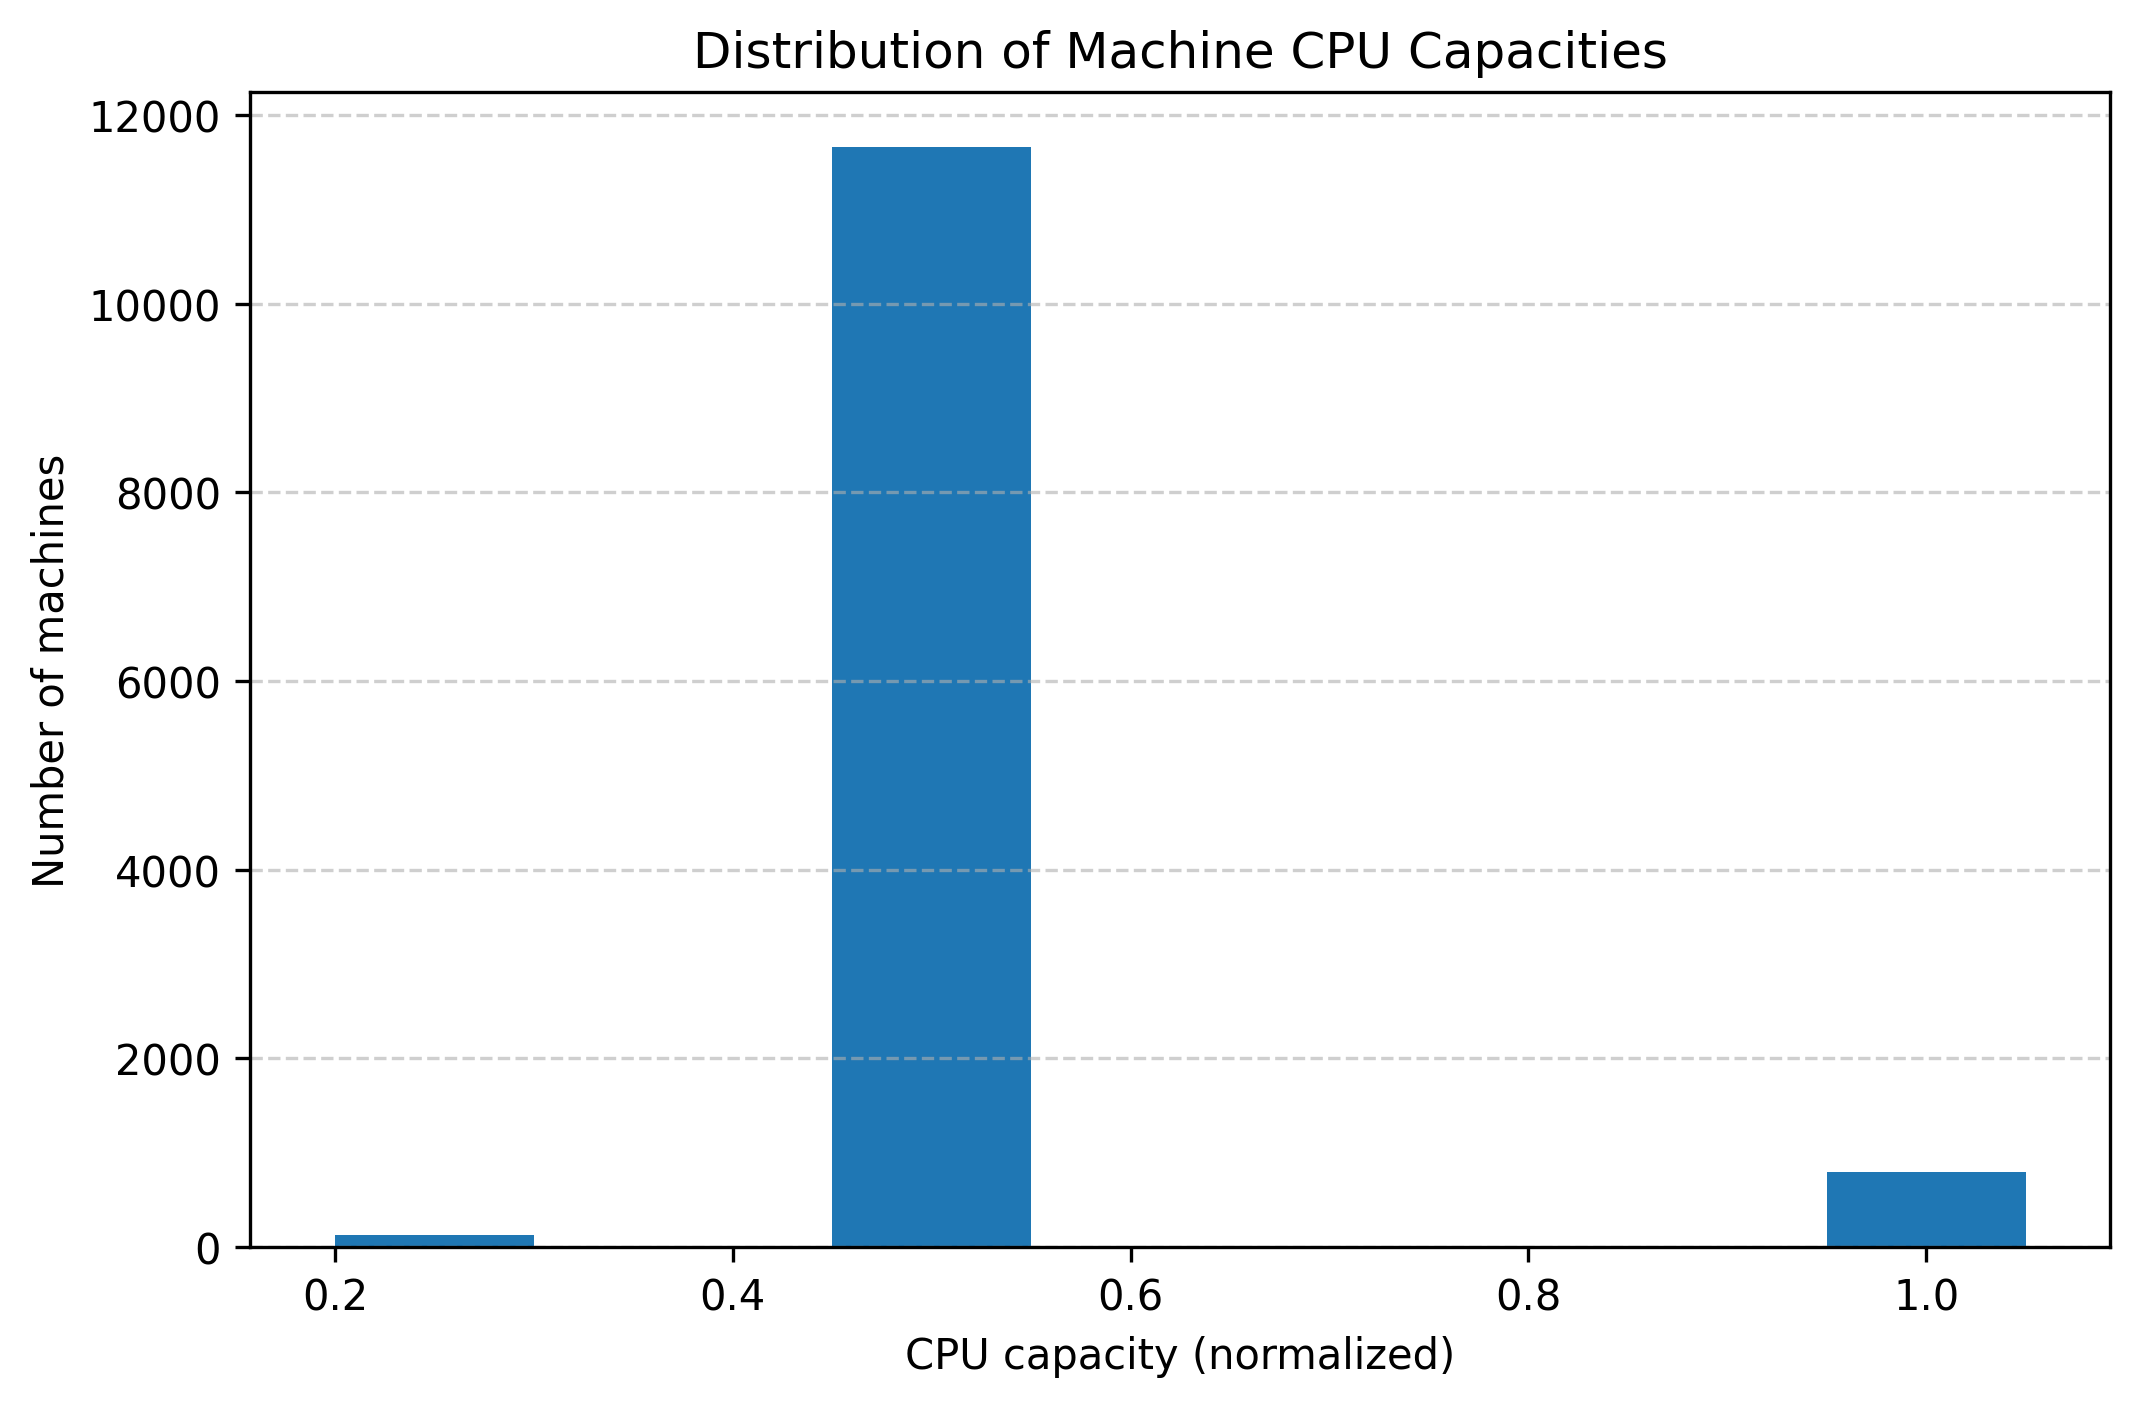
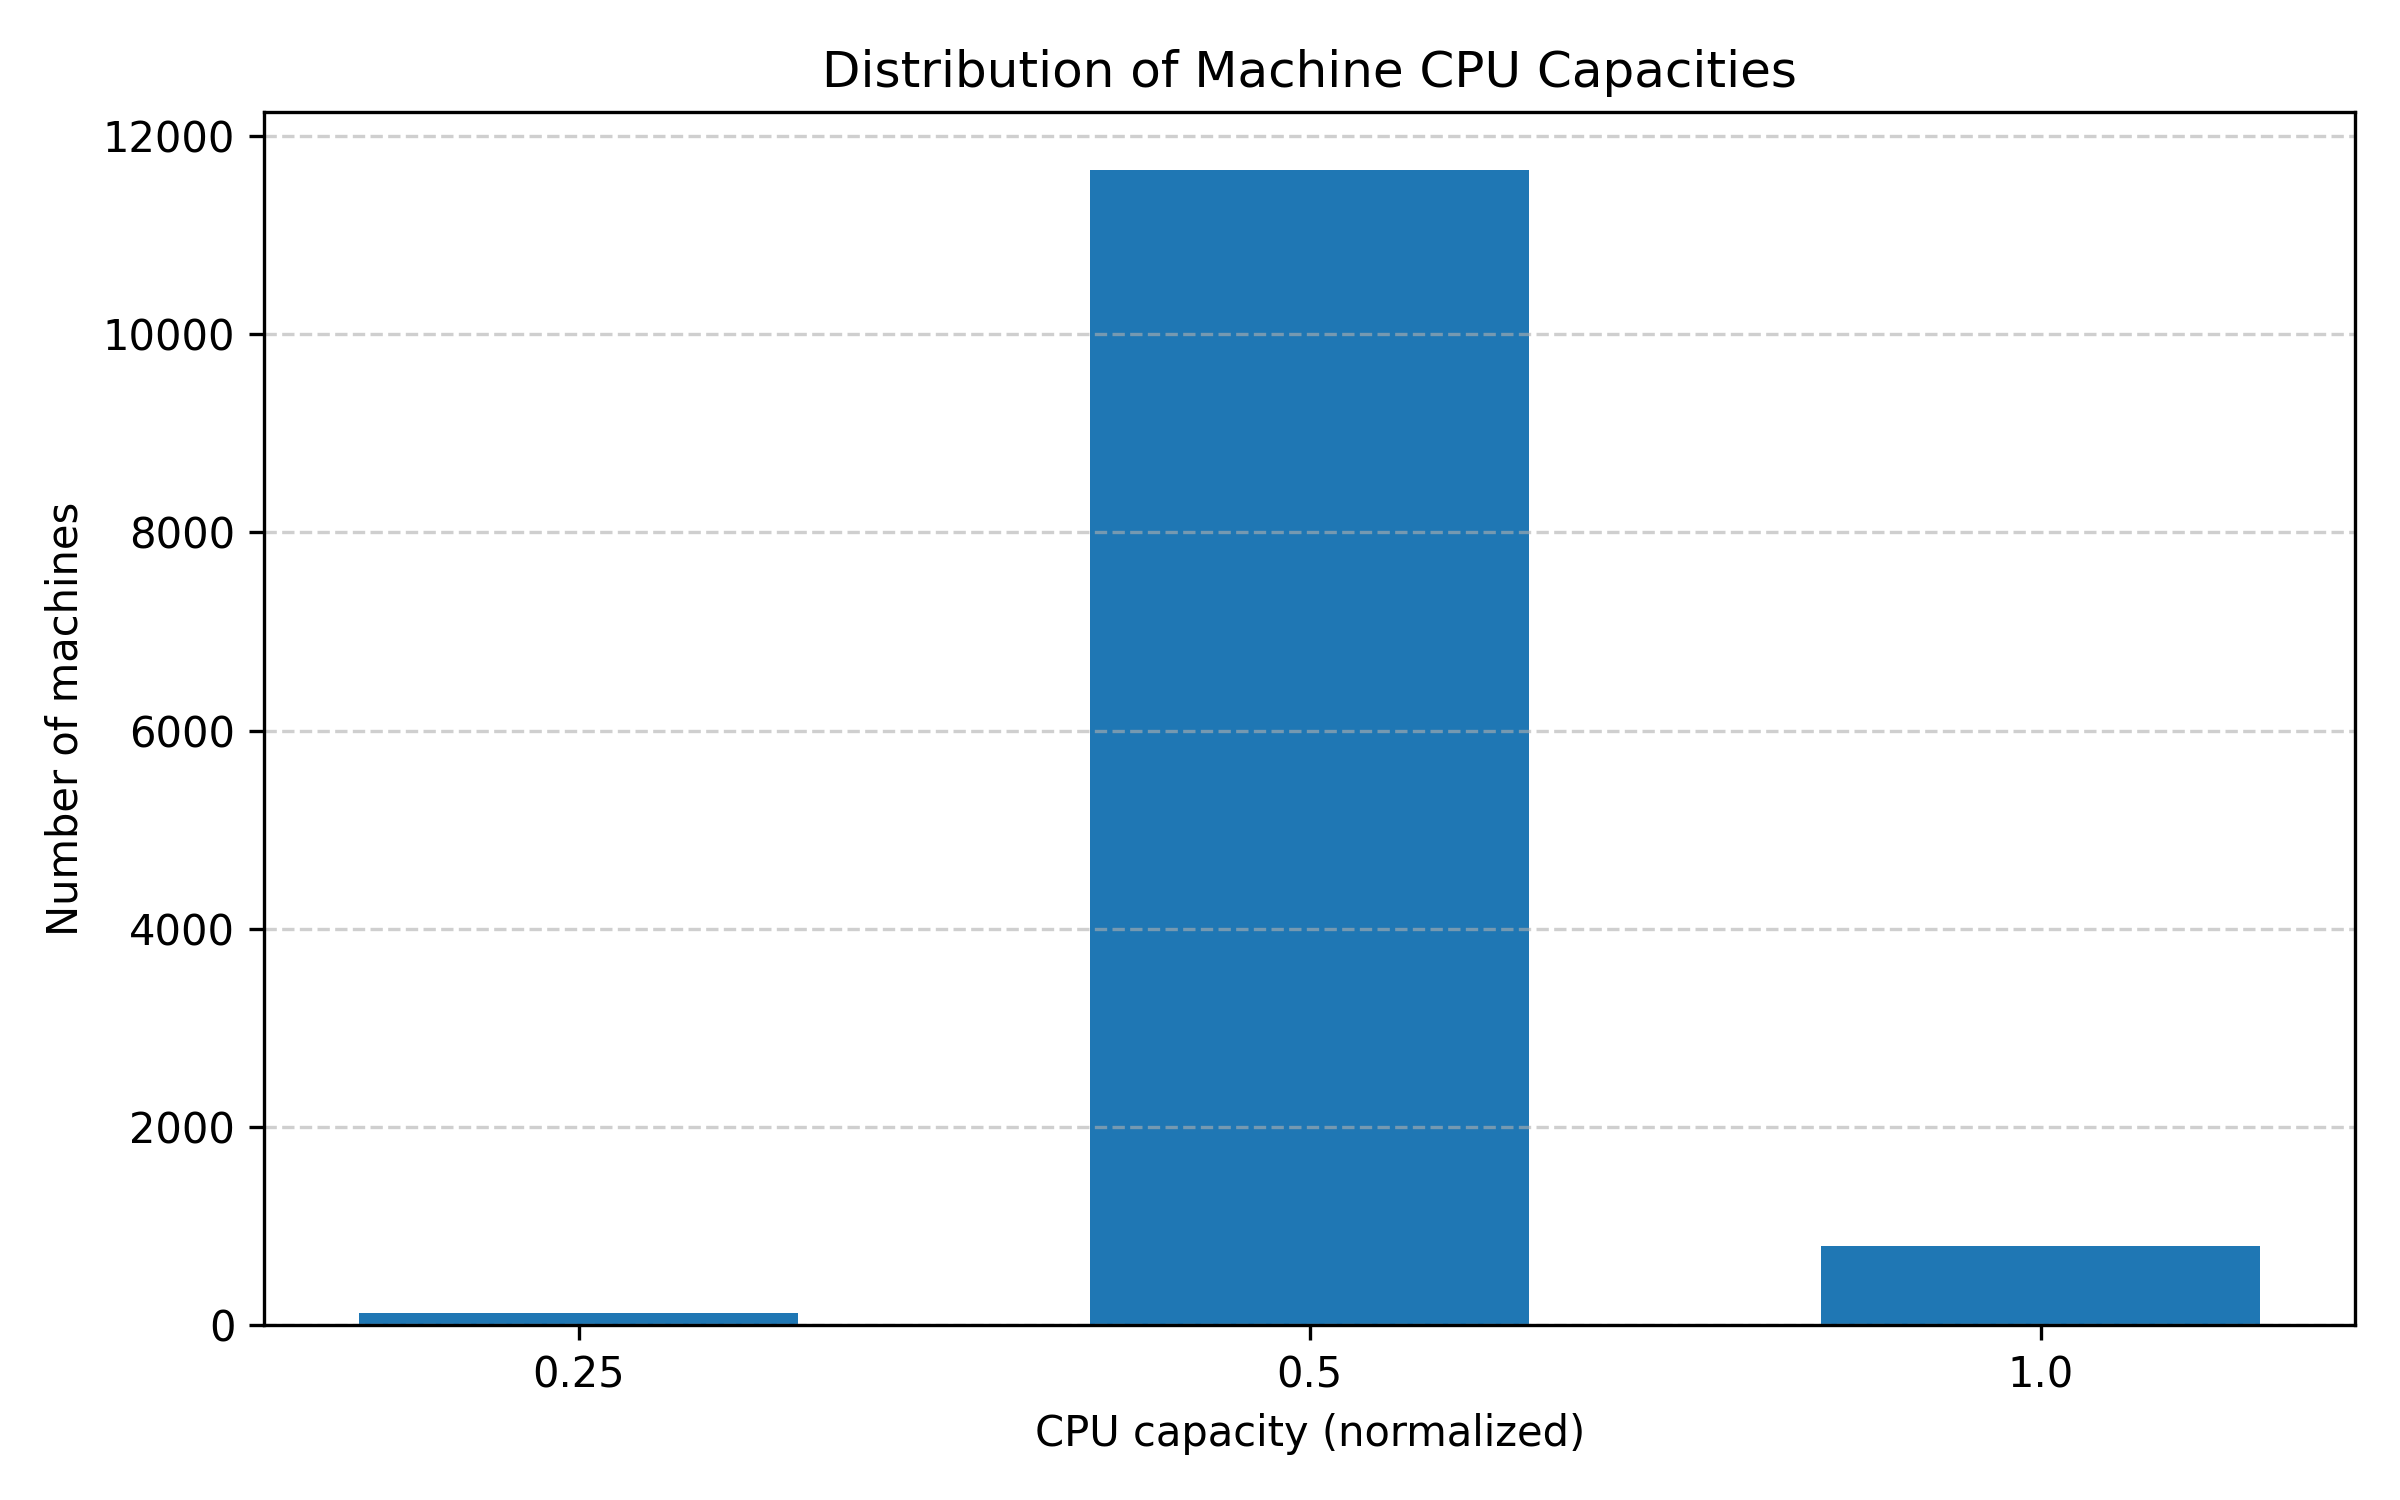
checkpoint

Changed region(s): [[0.0, 0.0, 0.9869, 0.978], [0.6785, 0.3362, 0.7093, 0.3667], [0.2159, 0.3362, 0.2467, 0.3667]]

diff --git a/src/question_1/code.py b/src/question_1/code.py
@@ -1,5 +1,6 @@
-from pyspark import SparkContext
+import os
 import matplotlib.pyplot as plt
+from pyspark import SparkContext
 
 # Machine Events
 # 0,time,INTEGER,YES
@@ -40,27 +41,34 @@ parsed_events = events.map(parseLine).filter(lambda x: x is not None)
 filtered_events = parsed_events.filter(lambda x: x[2] != 1)
 
 # Transfrom to key-value pairs of the form (machine ID, (time, CPUs))
-machine_event_key_value_pairs = filtered_events.map(lambda x: (x[1], (x[0], x[3])) )
+event_key_value_pairs = filtered_events.map(lambda x: (x[1], (x[0], x[3])) )
 
 # For each machine ID, get the event with the latest time
-most_recent_machine_events = machine_event_key_value_pairs.reduceByKey(lambda x,y: x if x[0] > y[0] else y)
+most_recent_machine_events = event_key_value_pairs.reduceByKey(lambda x,y: x if x[0] > y[0] else y)
 
 # Extract the CPU values from the results
-cpu_values = most_recent_machine_events.map(lambda x: x[1][1])
+cpus = most_recent_machine_events.map(lambda x: x[1][1])
 
 # Compute the distribution of CPU values
-cpu_distribution = cpu_values.map(lambda x: (x, 1)).reduceByKey(lambda x,y: x+y).sortByKey().collect()
+cpu_distribution = cpus.map(lambda x: (x, 1)).reduceByKey(lambda x,y: x+y).sortByKey().collect()
+
+cpu_values = [x[0] for x in cpu_distribution] 
+cpu_counts = [x[1] for x in cpu_distribution]
+
+# Create directory if it does not exist
+os.makedirs("./src/question_1/plots", exist_ok=True)
 
 # Plot results 
-cpu_values = [x[0] for x in cpu_distribution]
-counts = [x[1] for x in cpu_distribution]
+x_pos = range(len(cpu_values))
 
 plt.figure(figsize=(8, 5))
-plt.bar(cpu_values, counts, width=0.1)
+plt.bar(x_pos, cpu_counts, width=0.6)
 
+plt.xticks(x_pos, cpu_values)
 plt.xlabel("CPU capacity (normalized)")
 plt.ylabel("Number of machines")
 plt.title("Distribution of Machine CPU Capacities")
 
 plt.grid(axis='y', linestyle='--', alpha=0.6)
-plt.savefig("./src/question_1/plots/cpu_capacity_distribution.png", dpi=300, bbox_inches="tight")
+plt.tight_layout()
+plt.savefig("./src/question_1/plots/cpu_capacity_distribution.png", dpi=300)

diff --git a/src/question_2/code.py b/src/question_2/code.py
@@ -1,0 +1,59 @@
+import os
+import matplotlib.pyplot as plt
+from pyspark import SparkContext
+
+# Machine Events
+# 0,time,INTEGER,YES
+# 1,machine ID,INTEGER,YES
+# 2,event type,INTEGER,YES : ADD (0) | REMOVE (1) | UPDATE (2)
+# 3,platform ID,STRING_HASH,NO
+# 4,CPUs,FLOAT,NO
+# 5,Memory,FLOAT,NO
+
+# For each line of the input file, return a tuple (time, machine ID, event type, CPUs)
+def parseLine(line):
+    splitLine = line.split(',')
+
+    # Skip rows with missing CPU value
+    if len(splitLine) < 6 or splitLine[4] == '':
+        return None
+    
+    return (
+        int(splitLine[0]),
+        int(splitLine[1]),
+        int(splitLine[2]),
+        float(splitLine[4])
+    )
+
+def compute_lost_cpu_time(events):
+    lost = 0.0
+    last_remove_time = None
+    cpu_capacity = None
+
+    for time, event, cpu in events:
+        if event == 1:  # REMOVE
+            last_remove_time = time
+            cpu_capacity = cpu
+        elif event == 0 and last_remove_time is not None:  # ADD after REMOVE
+            lost += cpu_capacity * (time - last_remove_time)
+            last_remove_time = None
+
+    return lost
+
+#### Driver program
+
+# Start spark with 1 worker thread
+sc = SparkContext("local[*]")
+sc.setLogLevel("ERROR")
+
+# Read the input file into an RDD[String]
+events = sc.textFile("./data/machine_events/part-00000-of-00001.csv")
+
+# Parse each line into a tuple (time, machine ID, event type, CPUs)
+parsed_events = events.map(parseLine).filter(lambda x: x is not None)
+
+# Group events by machine ID
+events_by_machine = parsed_events.map(lambda x: (x[1], (x[0], x[2], x[3]))).groupByKey()
+
+# Sort events for each machine ID by time
+sorted_events_by_machine = events_by_machine.mapValues(lambda evts: sorted(evts, key=lambda x: x[0]))

diff --git a/README.md b/README.md
@@ -1,25 +1,19 @@
 # Google-Cluster-Dataset-Spark-Project
 
-Soufiane ABAHAMID
-Mohamed Quehlaoui
-Team: AK
-Data Subset: 180 - 184
+- By: Soufiane ABAHAMID - Mohamed Quehlaoui
+- Team: AK
+- Data Subset: 180 - 184
 
-# Notes
+# Anaylsis 1: Distribution of Machine CPU Capacities
 
-- The very first thing we did was install pyenv, since gsutil requires version 3.13 , and all we had was 3.12.
-- After that we installed the python 3.13 version and gsutil
-- Then we downloaded our parts from `e` - ``:
-  - part-00180-of-00500.csv.gz
-  - part-00181-of-00500.csv.gz
-  - part-00182-of-00500.csv.gz
-  - part-00183-of-00500.csv.gz
-  - part-00184-of-00500.csv.gz
+To better understand the hardware heterogeneity of the cluster, we first analyzed the distribution of CPU capacities across all machines. The data was extracted from the **machine events** table, which provides information about each machine’s available resources over time. For each machine, we retained only the most recent event (the one with the latest timestamp) in order to represent its final known configuration during the trace period. Machine events corresponding to removal events were excluded from the analysis.
 
-# Anaylsis 1
+The CPU capacity values in the dataset are normalized, meaning that a value of 1.0 corresponds to the machine with the highest number of CPU cores in the cluster. Lower values represent machines with proportionally fewer cores (according to the google's documentation).
 
-Distribution of the machines according to their CPU capacity :
+![Alt text describing the image](src/question_1/plots/cpu_capacity_distribution.png)
 
-For this analysis there is one single file, about the whole Google Cell so we executed the code on the full Dataset.
+_Figure 1: Distribution of Machine CPU Capacities._
 
-Based on the google documentation there are 3 types of machine events; ADD, REMOVE and UPDATE, naturally we should ignore the REMOVE events since a prior record concerning the machine would indicate the same resources,and since a machine can start with a certain capacity and get updated later, then for each machine we should only keep the latest record either an ADD (because it could get removed earlier and added again, a restart) or UPDATE, by comparing their timestamps and finally when we have all the needed records, we would group them by their CPUs field, and plot the result.
+The results indicate that the majority of machines have a normalized CPU capacity of 0.5, suggesting a strong hardware homogeneity in the cluster. A smaller number of machines have higher capacities (around 1.0), which likely correspond to more powerful nodes intended for heavier workloads. Conversely, a very small fraction of machines have low CPU capacity (around 0.25), possibly representing older or specialized machines.
+
+Overall, this distribution suggests that the cluster is largely composed of mid-range machines, with limited hardware heterogeneity. This design likely simplifies scheduling decisions and helps ensure predictable performance across tasks, while still allowing some flexibility through the presence of higher-capacity nodes.
